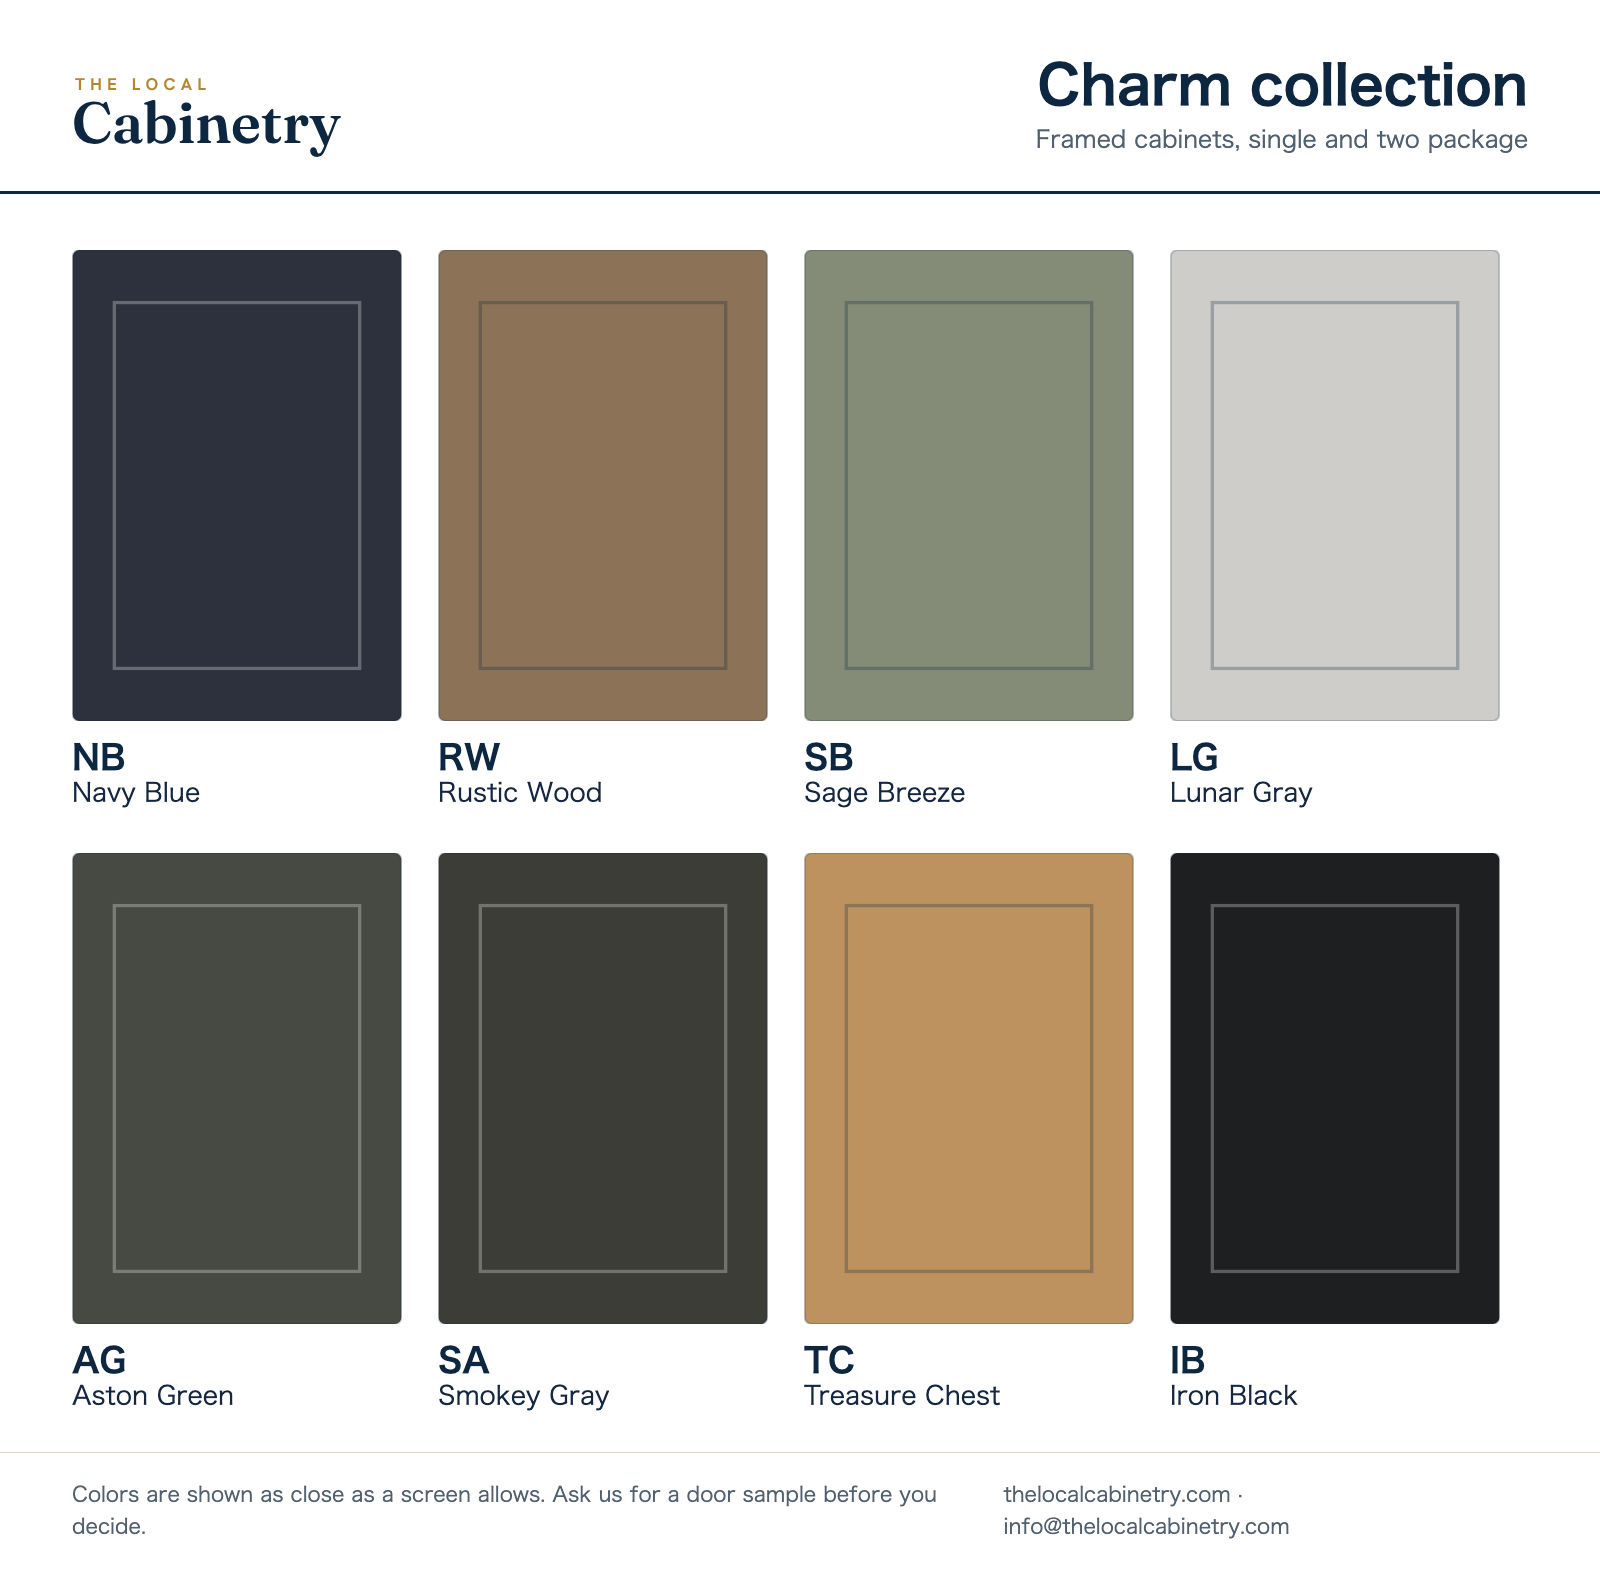
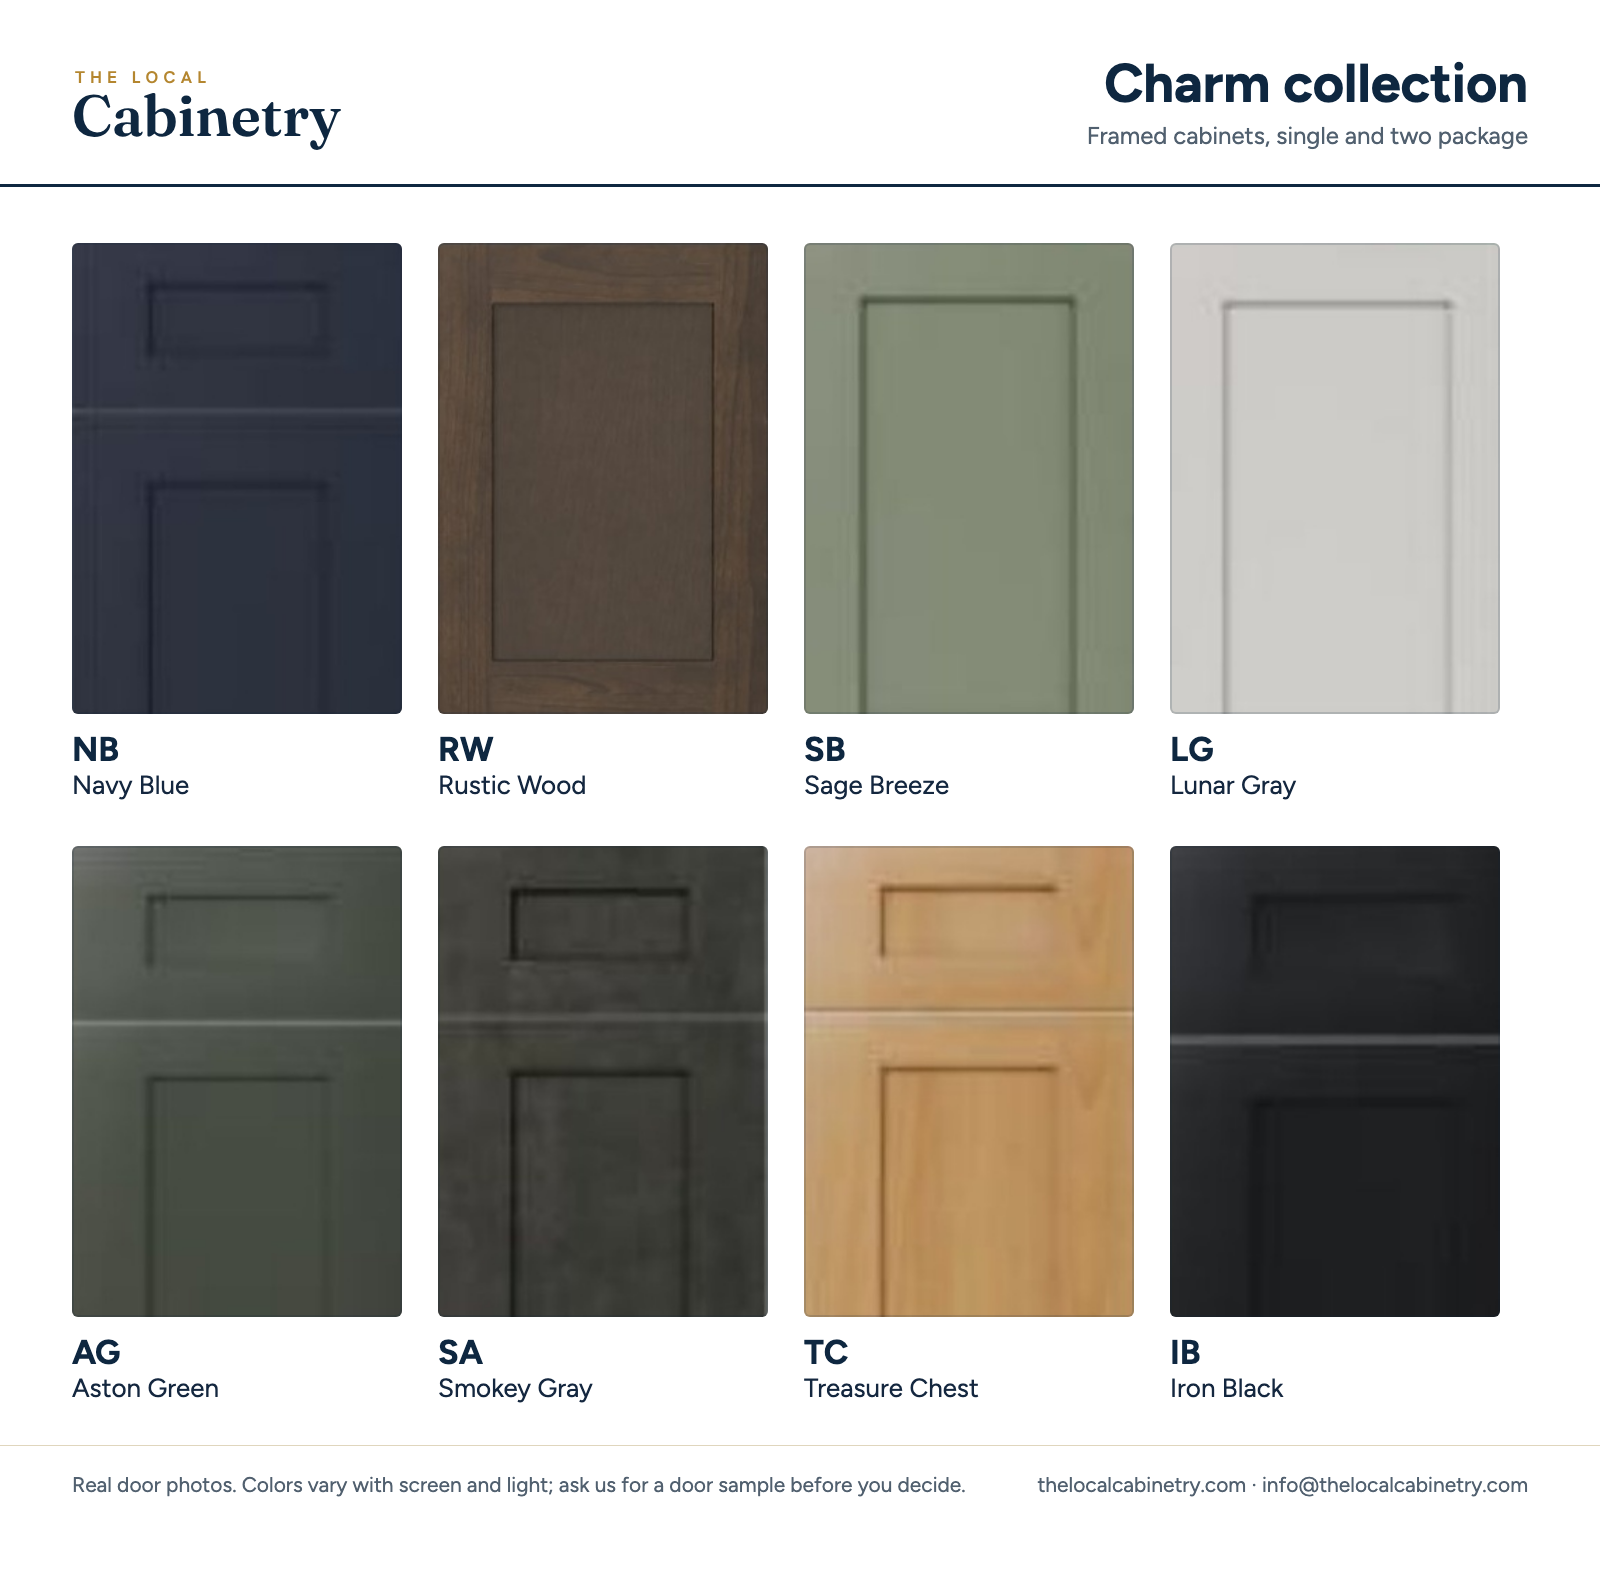
Finish sheets: real door photos instead of flat colour squares (local-cabinets-ops #4930)
Every tile on the overview and the per-line sheets is now a photo of the door from our own door photos (the same files the quote and contract sheets print), trimmed and framed the same way: one box per tile, top of the door, no stretching. A finish with no photo yet shows a dashed "Photo coming" tile and the builder prints the list (today Slim Iron Black and Floral White). Footer and Alibaba variants rebuilt, same filenames.

Claude-Session: https://claude.ai/code/session_012ozEBgVkAci7XUC9DA8P13

diff --git a/finish-sheets/src/build_sheets.py b/finish-sheets/src/build_sheets.py
@@ -1,55 +1,92 @@
-import json,subprocess,os,html
+import json,subprocess,os,html,sys
+from PIL import Image
 E=html.escape
-sw=json.load(open('swatches.json'))
-HEX={k:'#%02x%02x%02x'%tuple(v['rgb']) for k,v in sw.items()}; HEX.update({'FE':'#2f1812','HW':'#eae8e9','HG':'#8e8b8a'})
-def lum(h): r,g,b=int(h[1:3],16),int(h[3:5],16),int(h[5:7],16); return .299*r+.587*g+.114*b
+HERE=os.path.dirname(os.path.abspath(__file__))
+PHOTOS=os.path.join(HERE,'photos')
+CROP=json.load(open(os.path.join(HERE,'photo_crops.json')))
 LINES=[
- ('essential','Essential','Shaker door, framed cabinets, single package',[('SW','Shaker White'),('GR','Gray Shaker'),('SE','Shaker Espresso')],'shaker'),
- ('classic','Classic','Raised panel door, framed cabinets, single package',[('AC','Aspen Charcoal'),('AW','Aspen White'),('CW','Charleston White')],'classic'),
- ('slim-shaker','Slim Shaker','Slim frame shaker door, framed cabinets',[('SDW','Slim Dove White'),('SWO','Slim White Oak'),('SAO','Slim Amber Oak'),('SIB','Slim Iron Black'),('SAG','Slim Aston Green')],'slim'),
- ('charm','Charm','Framed cabinets, single and two package',[('NB','Navy Blue'),('RW','Rustic Wood'),('SB','Sage Breeze'),('LG','Lunar Gray'),('AG','Aston Green'),('SA','Smokey Gray'),('TC','Treasure Chest'),('IB','Iron Black')],'shaker'),
- ('double-shaker','Double Shaker','Double frame shaker door, framed cabinets, two package',[('DDW','Double Dove White'),('DSG','Double Smokey Gray')],'double'),
- ('frameless','Frameless','Slab door, frameless cabinets, two package',[('OB','Oak Blonde'),('OS','Oak Shade'),('MB','Matte Black'),('MI','Matte Ivory'),('CG','Crystal Glass'),('MG','Midnight Glass'),('HW','High Glossy White'),('HG','High Glossy Gray')],'slab'),
- ('builder-grade','Builder Grade','Shaker door, framed cabinets, drop-ship',[('FW','Floral White'),('FG','Floral Gray'),('FE','Floral Espresso')],'shaker'),
+ ('essential','Essential','Shaker door, framed cabinets, single package',[('SW','Shaker White'),('GR','Gray Shaker'),('SE','Shaker Espresso')]),
+ ('classic','Classic','Raised panel door, framed cabinets, single package',[('AC','Aspen Charcoal'),('AW','Aspen White'),('CW','Charleston White')]),
+ ('slim-shaker','Slim Shaker','Slim frame shaker door, framed cabinets',[('SDW','Slim Dove White'),('SWO','Slim White Oak'),('SAO','Slim Amber Oak'),('SIB','Slim Iron Black'),('SAG','Slim Aston Green')]),
+ ('charm','Charm','Framed cabinets, single and two package',[('NB','Navy Blue'),('RW','Rustic Wood'),('SB','Sage Breeze'),('LG','Lunar Gray'),('AG','Aston Green'),('SA','Smokey Gray'),('TC','Treasure Chest'),('IB','Iron Black')]),
+ ('double-shaker','Double Shaker','Double frame shaker door, framed cabinets, two package',[('DDW','Double Dove White'),('DSG','Double Smokey Gray')]),
+ ('frameless','Frameless','Slab door, frameless cabinets, two package',[('OB','Oak Blonde'),('OS','Oak Shade'),('MB','Matte Black'),('MI','Matte Ivory'),('CG','Crystal Glass'),('MG','Midnight Glass'),('HW','High Glossy White'),('HG','High Glossy Gray')]),
+ ('builder-grade','Builder Grade','Shaker door, framed cabinets, drop-ship',[('FW','Floral White'),('FG','Floral Gray'),('FE','Floral Espresso')]),
 ]
-def door(code,kind,dw=300,dh=430,w=300,h=430):
-    c=HEX[code]; dark=lum(c)<110
-    line='rgba(255,255,255,.28)' if dark else 'rgba(14,39,64,.28)'
-    inner={'shaker':f'<rect x="38" y="48" width="{w-76}" height="{h-96}" fill="none" stroke="{line}" stroke-width="3"/>',
-     'classic':f'<rect x="34" y="44" width="{w-68}" height="{h-88}" fill="none" stroke="{line}" stroke-width="3"/><rect x="58" y="68" width="{w-116}" height="{h-136}" rx="6" fill="none" stroke="{line}" stroke-width="2"/>',
-     'slim':f'<rect x="22" y="30" width="{w-44}" height="{h-60}" fill="none" stroke="{line}" stroke-width="3"/>',
-     'double':f'<rect x="34" y="44" width="{w-68}" height="{h-88}" fill="none" stroke="{line}" stroke-width="3"/><rect x="62" y="72" width="{w-124}" height="{h-144}" fill="none" stroke="{line}" stroke-width="3"/>',
-     'slab':f'<line x1="0" y1="2" x2="{w}" y2="2" stroke="{line}" stroke-width="3"/>'}[kind]
-    return f'<svg viewBox="0 0 {w} {h}" width="{dw}" height="{dh}" xmlns="http://www.w3.org/2000/svg"><rect width="{w}" height="{h}" rx="6" fill="{c}" stroke="rgba(14,39,64,.22)" stroke-width="2"/>{inner}</svg>'
+RATIO=1.43
+def slug(name): return name.lower().replace(' ','-')
+def src_of(name):
+    p=os.path.join(PHOTOS,f'door-{slug(name)}.jpg')
+    return p if os.path.exists(p) else None
+def trim(im):
+    g=im.convert('L').point(lambda v:255 if v>=248 else 0)
+    w,h=g.size; px=g.load()
+    col=lambda x:sum(px[x,y]==255 for y in range(h))>=.98*h
+    row=lambda y:sum(px[x,y]==255 for x in range(w))>=.98*w
+    l=0
+    while l<w-1 and col(l): l+=1
+    r=w-1
+    while r>l and col(r): r-=1
+    t=0
+    while t<h-1 and row(t): t+=1
+    b=h-1
+    while b>t and row(b): b-=1
+    return im.crop((l,t,r+1,b+1))
+def framed(name,code):
+    im=Image.open(src_of(name)).convert('RGB')
+    if code in CROP: im=im.crop(tuple(CROP[code]))
+    im=trim(im)
+    inset=2; im=im.crop((inset,inset,im.width-inset,im.height-inset))
+    w,h=im.size
+    if h/w>=RATIO: box=(0,0,w,round(w*RATIO))
+    else: cw=round(h/RATIO); x=(w-cw)//2; box=(x,0,x+cw,h)
+    im=im.crop(box)
+    os.makedirs('fs/photos',exist_ok=True)
+    out=f'fs/photos/{code}.jpg'
+    im.save(out,quality=95)
+    return out
+MISSING=[]
+def tile(code,name,w,h):
+    if src_of(name):
+        return f'<div class="ph" style="width:{w}px;height:{h}px"><img src="{framed(name,code)}" alt=""></div>'
+    if (code,name) not in MISSING: MISSING.append((code,name))
+    return f'<div class="ph none" style="width:{w}px;height:{h}px"><span>Photo coming</span></div>'
 CSS='''@font-face{font-family:"Figtree";src:url("catalog/src/fonts/Figtree-VF.ttf") format("truetype");font-weight:300 900}
 *{box-sizing:border-box}body{margin:0;width:1600px;font-family:"Figtree";color:#14273f;background:#fff}
 .hd{display:flex;justify-content:space-between;align-items:flex-end;padding:56px 72px 34px;border-bottom:3px solid #0e2740}
 .hd img{height:84px}.hd .t{text-align:right}.hd h1{margin:0;font-size:54px;font-weight:700;color:#0e2740;line-height:1.05}.hd p{margin:8px 0 0;font-size:24px;color:#51606f}
 .grid{display:grid;gap:44px 36px;padding:56px 72px 40px}.tile{display:flex;flex-direction:column;align-items:flex-start}
 .tile .l{margin-top:16px;font-size:26px;line-height:1.2}.tile .l b{display:block;font-size:34px;color:#0e2740}
+.ph{position:relative;overflow:hidden;border-radius:6px;background:#f4f2ec}
+.ph img{display:block;width:100%;height:100%;object-fit:cover}
+.ph:after{content:"";position:absolute;inset:0;border-radius:6px;box-shadow:inset 0 0 0 2px rgba(14,39,64,.16)}
+.ph.none{display:flex;align-items:center;justify-content:center;border:3px dashed #b3ab97;text-align:center}
+.ph.none:after{display:none}
+.ph.none span{font-size:30px;font-weight:600;color:#51606f;line-height:1.15;padding:0 10px}
+.mini .ph.none span{font-size:19px}
 .ft{display:flex;justify-content:space-between;padding:26px 72px 40px;border-top:1px solid #e0d6bd;font-size:21px;color:#51606f}
 .sec{padding:0 72px}.sec h2{margin:34px 0 12px;font-size:30px;color:#0e2740;border-bottom:2px solid #0e2740;padding-bottom:6px}.sec h2 span{font-size:20px;font-weight:400;color:#51606f;margin-left:12px}
 .row{display:grid;grid-template-columns:repeat(8,1fr);gap:18px 14px}.mini{font-size:17px;line-height:1.15}.mini b{display:block;font-size:20px;color:#0e2740;margin-top:6px}
+.sec:last-of-type{margin-bottom:36px}
 '''
-import sys
 ALIBABA='--alibaba' in sys.argv[1:]
 SUFFIX='-alibaba' if ALIBABA else ''
-def foot(): return '<div class="ft"><span>Colors are shown as close as a screen allows. Ask us for a door sample before you decide.</span>'+('' if ALIBABA else '<span>thelocalcabinetry.com &middot; info@thelocalcabinetry.com</span>')+'</div>'
+def foot(): return '<div class="ft"><span>Real door photos. Colors vary with screen and light; ask us for a door sample before you decide.</span>'+('' if ALIBABA else '<span>thelocalcabinetry.com &middot; info@thelocalcabinetry.com</span>')+'</div>'
 def render(name,body,h):
     open(f'fs/{name}.html','w').write(f'<!doctype html><meta charset="utf-8"><base href="file://{os.getcwd()}/"><style>{CSS}</style><body>{body}</body>')
     subprocess.run(['/Applications/Google Chrome.app/Contents/MacOS/Google Chrome','--headless=new','--disable-gpu','--hide-scrollbars',f'--window-size=1600,{h}',f'--screenshot=fs/{name}.png',f'file://{os.getcwd()}/fs/{name}.html'],capture_output=True)
 ONLY=len([a for a in sys.argv[1:] if a!='--alibaba'])>0
-for key,title,sub,items,kind in (LINES if not ONLY else []):
-    n=len(items); cols=min(n,4) if n!=5 else 5; 
-    cw=(1600-144-36*(cols-1))/cols; w=int(min(cw,330)); h=int(w*1.43)
-    tiles=''.join(f'<div class="tile">{door(c,kind,w,h)}<div class="l"><b>{E(c)}</b>{E(nm)}</div></div>' for c,nm in items)
+for key,title,sub,items in (LINES if not ONLY else []):
+    n=len(items); cols=min(n,4) if n!=5 else 5
+    cw=(1600-144-36*(cols-1))/cols; w=int(min(cw,330)); h=int(w*RATIO)
+    tiles=''.join(f'<div class="tile">{tile(c,nm,w,h)}<div class="l"><b>{E(c)}</b>{E(nm)}</div></div>' for c,nm in items)
     rows=(n+cols-1)//cols; H=190+56+rows*(h+110)+44+120
     body=f'<div class="hd"><img src="logo-tlc.svg" alt="The Local Cabinetry"><div class="t"><h1>{E(title)} collection</h1><p>{E(sub)}</p></div></div><div class="grid" style="grid-template-columns:repeat({cols},{w}px);justify-content:start">{tiles}</div>{foot()}'
     render('finish-sheet-'+key+SUFFIX,body,H)
-# overview
 secs=''
-for key,title,sub,items,kind in LINES:
-    minis=''.join(f'<div class="mini">{door(c,kind,150,215)}<b>{E(c)}</b>{E(nm)}</div>' for c,nm in items)
+for key,title,sub,items in LINES:
+    minis=''.join(f'<div class="mini">{tile(c,nm,150,215)}<b>{E(c)}</b>{E(nm)}</div>' for c,nm in items)
     secs+=f'<div class="sec"><h2>{E(title)}<span>{E(sub)}</span></h2><div class="row">{minis}</div></div>'
-render('finish-sheet-all'+SUFFIX,f'<div class="hd"><img src="logo-tlc.svg" alt="The Local Cabinetry"><div class="t"><h1>All finishes</h1><p>Every collection and finish with its code</p></div></div>{secs}{foot()}',2960)
+render('finish-sheet-all'+SUFFIX,f'<div class="hd"><img src="logo-tlc.svg" alt="The Local Cabinetry"><div class="t"><h1>All finishes</h1><p>Every collection and finish with its code</p></div></div>{secs}{foot()}',2830)
+print('no photo yet: '+(', '.join(f'{c} {nm}' for c,nm in MISSING) or 'none'))
 print('done')
